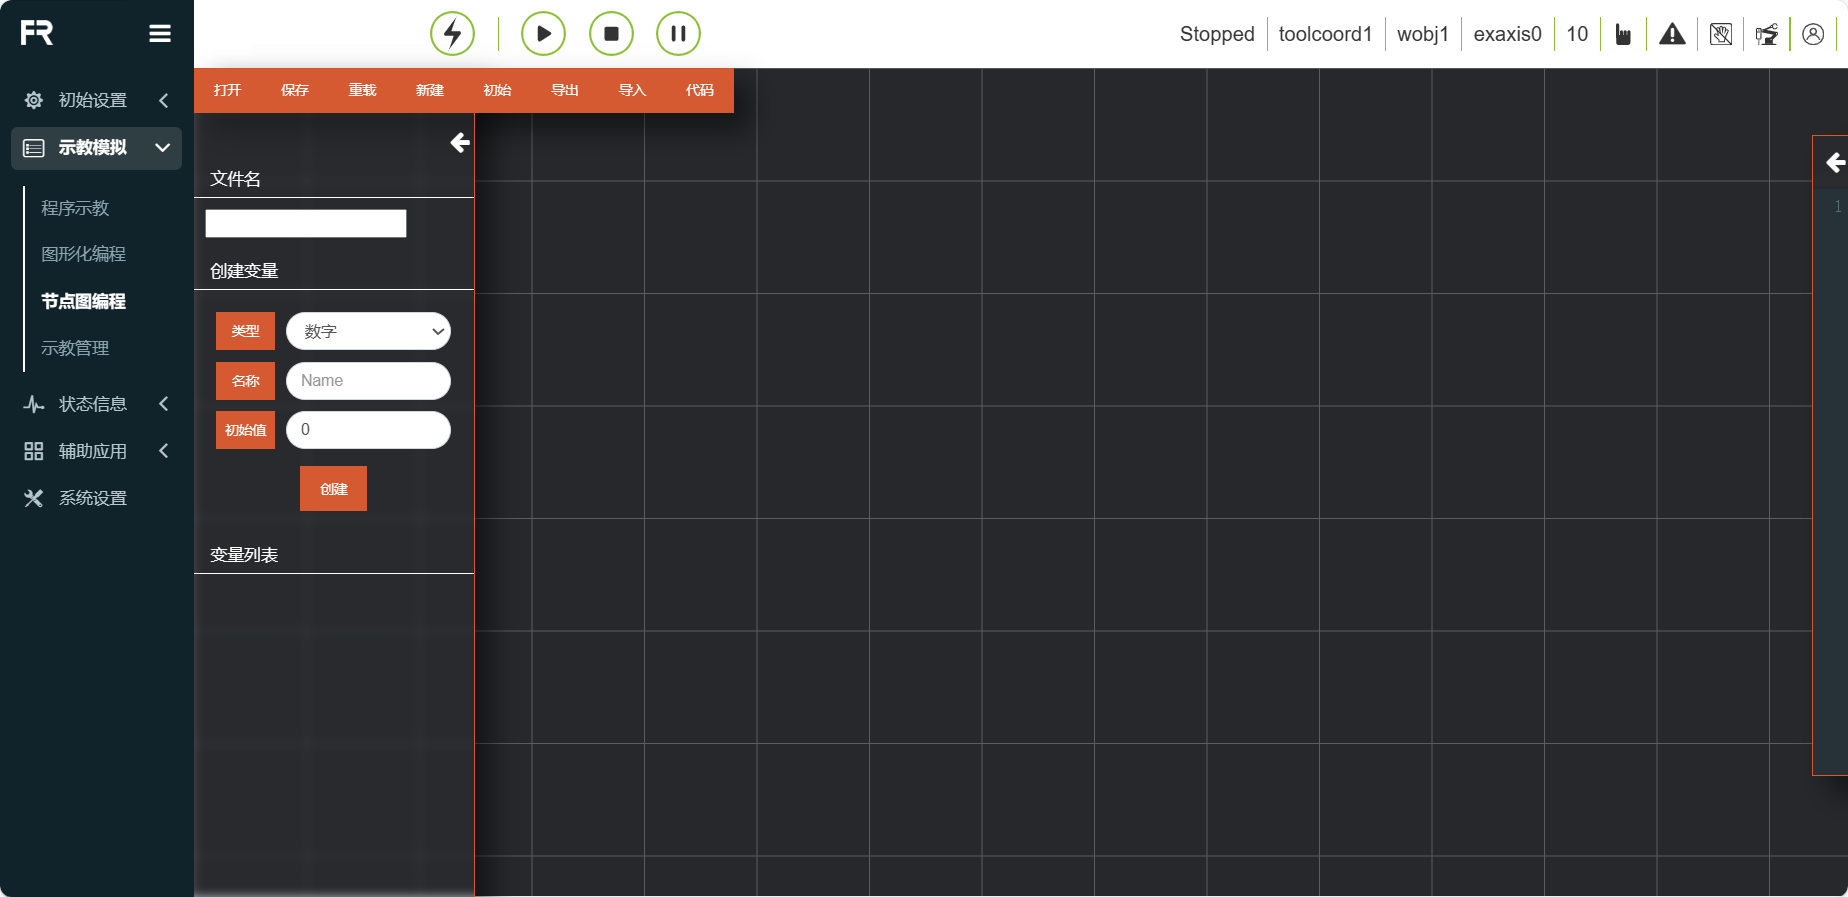
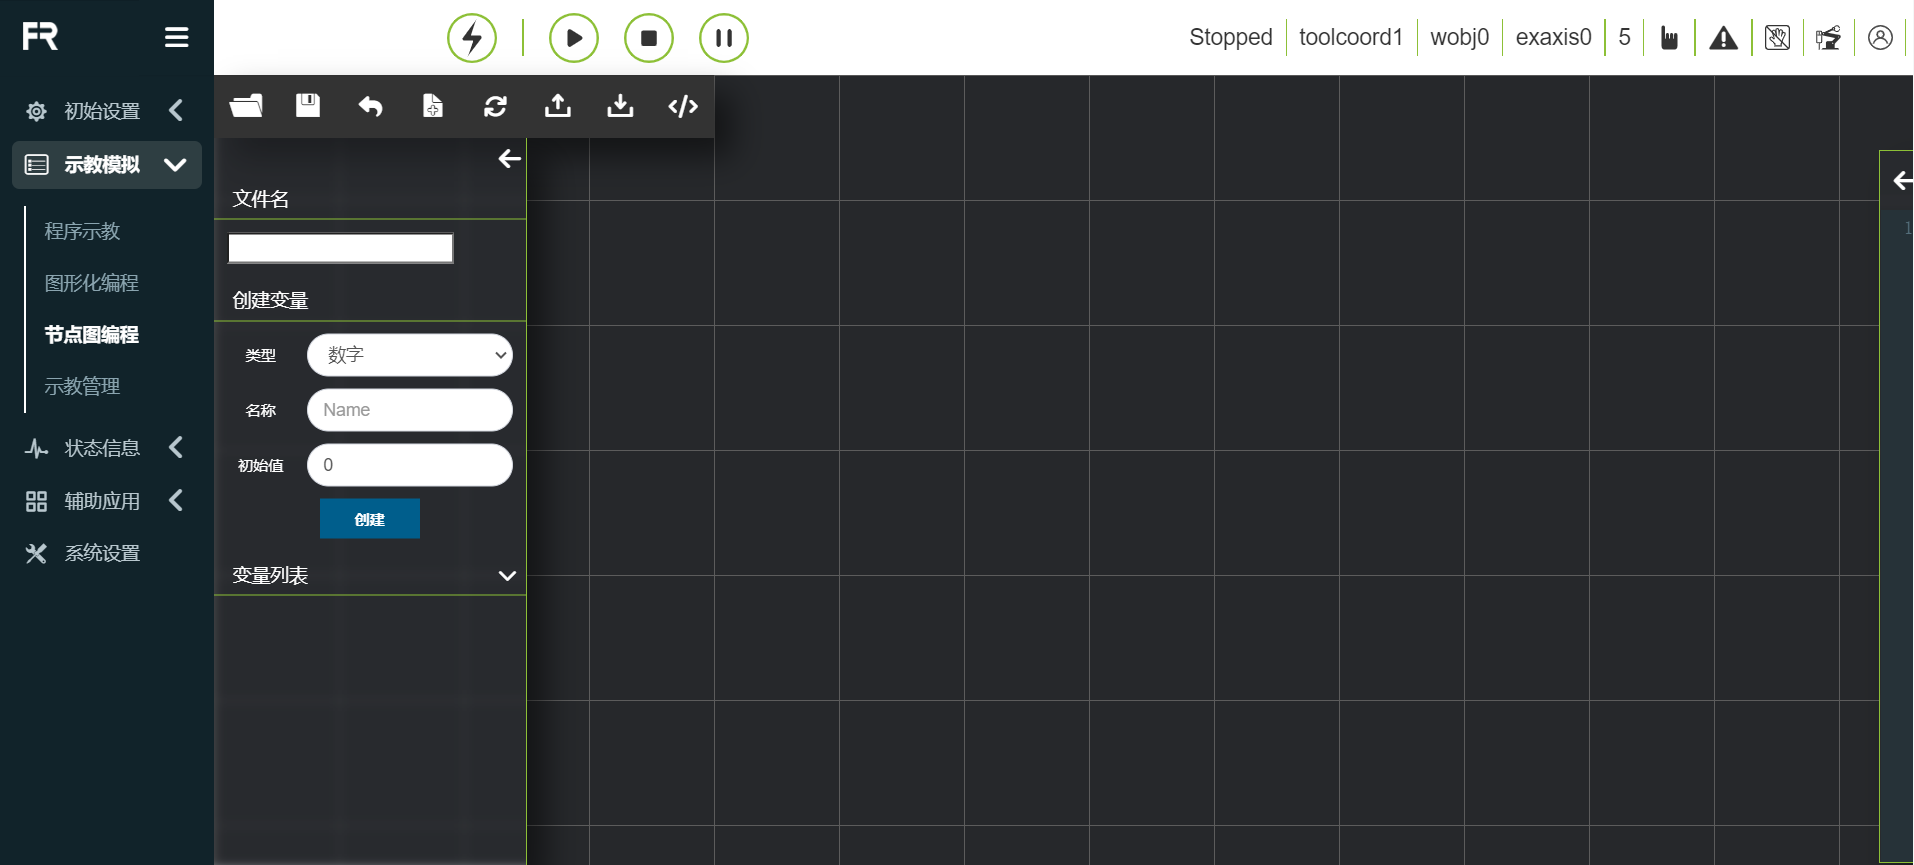
节点图界面和操作修改

diff --git a/source/CobotsManual/node_editor_software.rst b/source/CobotsManual/node_editor_software.rst
@@ -34,47 +34,80 @@
 .. centered:: 图表 6.1-2 操作工具栏
 
 .. note:: 
+   .. image:: teaching_pendant_software/070.png
+      :width: 1.5in
+      :height: 0.75in
+      :align: left
+
    名称：**打开**
    
    作用：打开用户程序文件，在弹出框中选择加载或删除文件
 
 .. note:: 
+   .. image:: teaching_pendant_software/074.png
+      :width: 1.5in
+      :height: 0.75in
+      :align: left
 
    名称：**保存**
    
    作用：保存节点图编辑内容
 
 .. note:: 
+   .. image:: node_editor_software/131.png
+      :width: 1.5in
+      :height: 0.75in
+      :align: left
 
    名称：**重载**
    
    作用：重新加载上次操作的节点图内容到本地。
 
 .. note:: 
+   .. image:: teaching_pendant_software/071.png
+      :width: 1.5in
+      :height: 0.75in
+      :align: left
 
    名称：**新建**
    
    作用：新建节点图编程文件
 
 .. note:: 
+   .. image:: node_editor_software/130.png
+      :width: 1.5in
+      :height: 0.75in
+      :align: left
 
    名称：**初始**
    
    作用：加载初始设置的节点图内容。
 
 .. note:: 
+   .. image:: teaching_pendant_software/073.png
+      :width: 1.5in
+      :height: 0.75in
+      :align: left
 
    名称：**导出**
    
    作用：新建/打开节点图编程文件后，点击“导出”按钮弹出“导出节点图编程”弹出框，选择工作区文件名导出文件（json格式）。
 
 .. note:: 
+   .. image:: teaching_pendant_software/072.png
+      :width: 1.5in
+      :height: 0.75in
+      :align: left
 
    名称：**导入**
    
    作用：点击“导入”按钮，弹出导入提示框。选择需要导入的文件，点击导入后，文件内容展示到节点图编程工作区。
 
 .. note:: 
+   .. image:: node_editor_software/129.png
+      :width: 1.5in
+      :height: 0.75in
+      :align: left
 
    名称：**代码**
    
